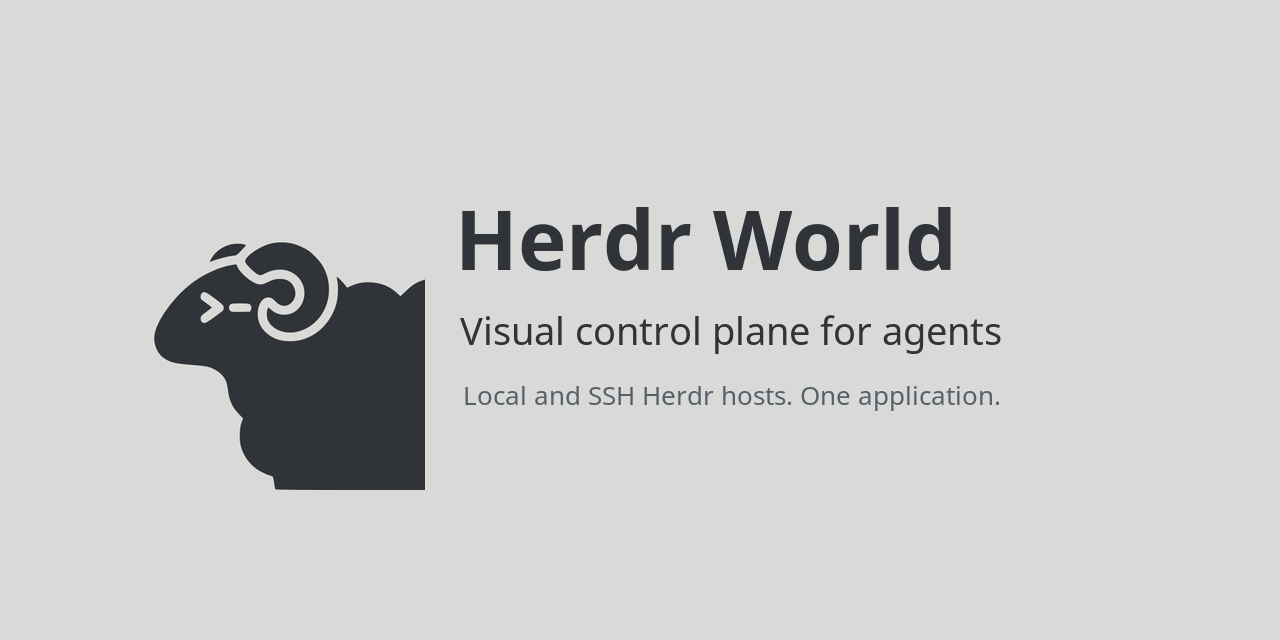
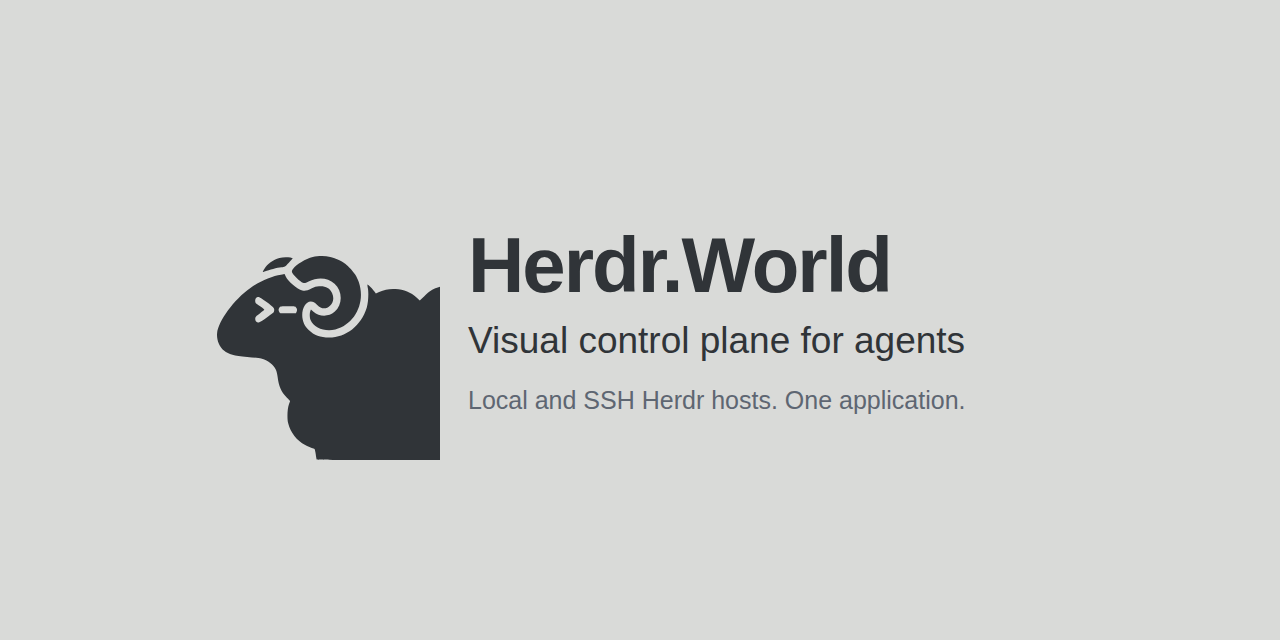
Style website and film brand as Herdr.World

Changed region(s): [[0.0938, 0.3125, 0.7812, 0.7812]]

diff --git a/site/index.html b/site/index.html
@@ -11,7 +11,7 @@
     <meta property="og:type" content="website" />
     <meta
       property="og:title"
-      content="Herdr World - View agent work in Office and Graph"
+      content="Herdr.World - View agent work in Office and Graph"
     />
     <meta
       property="og:description"
@@ -29,12 +29,12 @@
     <meta property="og:image:height" content="630" />
     <meta
       property="og:image:alt"
-      content="Herdr World - View agent work in Office and Graph"
+      content="Herdr.World - View agent work in Office and Graph"
     />
     <meta name="twitter:card" content="summary_large_image" />
     <meta
       name="twitter:title"
-      content="Herdr World - View agent work in Office and Graph"
+      content="Herdr.World - View agent work in Office and Graph"
     />
     <meta
       name="twitter:description"
@@ -49,12 +49,12 @@
     <link rel="icon" type="image/png" sizes="48x48" href="./assets/herdr-world-icon-48.png" />
     <link rel="apple-touch-icon" sizes="180x180" href="./assets/herdr-world-icon-180.png" />
     <link rel="stylesheet" href="./styles.css" />
-    <title>Herdr World - View agent work in Office and Graph</title>
+    <title>Herdr.World - View agent work in Office and Graph</title>
     <script type="application/ld+json">
       {
         "@context": "https://schema.org",
         "@type": "SoftwareApplication",
-        "name": "Herdr World",
+        "name": "Herdr.World",
         "applicationCategory": "DeveloperApplication",
         "operatingSystem": "macOS, Linux, Windows",
         "description": "Visualize Herdr agent work in Office and Graph across local and SSH hosts.",
@@ -73,9 +73,9 @@
 
     <header class="site-header" data-header>
       <div class="shell header-inner">
-        <a class="brand" href="#top" aria-label="Herdr World home">
+        <a class="brand" href="#top" aria-label="Herdr.World home">
           <img class="brand-logo" src="./assets/herdr-world-logo.svg" width="36" height="36" alt="" />
-          <span>Herdr World</span>
+          <span>Herdr.World</span>
         </a>
 
         <button
@@ -98,7 +98,7 @@
           <a
             class="github-link"
             href="https://github.com/IvoryHeart/herdr-world"
-            aria-label="Herdr World on GitHub"
+            aria-label="Herdr.World on GitHub"
           >
             <svg viewBox="0 0 24 24" aria-hidden="true">
               <path
@@ -116,11 +116,11 @@
 
     <main id="main-content">
       <section class="section shell film-section" id="top">
-        <h1 class="sr-only">Herdr World</h1>
+        <h1 class="sr-only">Herdr.World</h1>
         <div class="film-card reveal" id="film">
           <iframe
             src="./film/index.html?embed"
-            title="Promoted to CEO, a 62-second Herdr World film"
+            title="Promoted to CEO, a 62-second Herdr.World film"
             loading="eager"
             allow="autoplay; fullscreen"
           ></iframe>
@@ -147,13 +147,13 @@
               rel="noopener noreferrer"
               >Herdr</a
             >
-            keeps the terminals alive. Herdr World observes local and SSH hosts
+            keeps the terminals alive. Herdr.World observes local and SSH hosts
             in the background, projects the selected host into its visual views,
             and opens the exact terminal, files, changes and session history.
           </p>
           <div class="hero-actions">
             <a class="button button-primary" href="#install">
-              Install Herdr World
+              Install Herdr.World
               <svg viewBox="0 0 20 20" aria-hidden="true">
                 <path d="m7 4 6 6-6 6" />
               </svg>
@@ -195,7 +195,7 @@
             </div>
             <a
               href="./assets/herdr-world-desktop-office.png"
-              aria-label="Open the Herdr World Office screenshot"
+              aria-label="Open the Herdr.World Office screenshot"
               data-hero-link
             >
               <picture>
@@ -211,7 +211,7 @@
                 <img
                   data-hero-image
                   src="./assets/herdr-world-desktop-office.png"
-                  alt="Herdr World Office showing six agents across four workspaces on the selected host"
+                  alt="Herdr.World Office showing six agents across four workspaces on the selected host"
                   width="1440"
                   height="900"
                   loading="lazy"
@@ -494,7 +494,7 @@
                 tabindex="0"
                 data-showcase-tab
                 data-image="./assets/herdr-world-desktop-office.png"
-                data-alt="Herdr World Office showing the selected Herdr host"
+                data-alt="Herdr.World Office showing the selected Herdr host"
                 data-label="Office"
                 data-title="See the selected agent world at a glance."
                 data-copy="Keep local and SSH hosts observed in the background, then scan the selected host's spaces and recognized agents without losing the terminal workflow."
@@ -510,7 +510,7 @@
                 tabindex="-1"
                 data-showcase-tab
                 data-image="./assets/herdr-world-desktop-tree.png"
-                data-alt="Herdr World Tree showing the selected host's spaces and agents"
+                data-alt="Herdr.World Tree showing the selected host's spaces and agents"
                 data-label="Tree"
                 data-title="Trace every agent back to its runtime."
                 data-copy="Search and collapse the selected host's qualified space-agent hierarchy while World keeps every managed host distinct in the background."
@@ -526,7 +526,7 @@
                 tabindex="-1"
                 data-showcase-tab
                 data-image="./assets/herdr-world-desktop-graph.png"
-                data-alt="Herdr World Graph showing the selected host's spaces and agents"
+                data-alt="Herdr.World Graph showing the selected host's spaces and agents"
                 data-label="Graph"
                 data-title="Follow runtime relationships visually."
                 data-copy="Move from a machine to a workspace to the exact agent or terminal, then hand off into its live Spaces context."
@@ -542,7 +542,7 @@
                 tabindex="-1"
                 data-showcase-tab
                 data-image="./assets/herdr-world-desktop-files.png"
-                data-alt="Herdr World Inspector browsing files for the selected agent"
+                data-alt="Herdr.World Inspector browsing files for the selected agent"
                 data-label="Files"
                 data-title="Inspect the repository without leaving the agent."
                 data-copy="Browse the selected workspace and keep its terminal, changes, and agent identity in one movable Inspector."
@@ -558,7 +558,7 @@
                 tabindex="-1"
                 data-showcase-tab
                 data-image="./assets/herdr-world-desktop-changes.png"
-                data-alt="Herdr World Inspector showing changed files and a code diff"
+                data-alt="Herdr.World Inspector showing changed files and a code diff"
                 data-label="Changes"
                 data-title="Review the agent's changes in context."
                 data-copy="See changed files and inspect a diff beside the selected agent's workspace."
@@ -574,7 +574,7 @@
                 tabindex="-1"
                 data-showcase-tab
                 data-image="./assets/herdr-world-desktop-history.png"
-                data-alt="Herdr World Inspector showing agent session history"
+                data-alt="Herdr.World Inspector showing agent session history"
                 data-label="History"
                 data-title="Review what the agent actually did."
                 data-copy="Read the selected agent's session record beside its Office context, then return to the same live terminal."
@@ -599,12 +599,12 @@
                 </div>
                 <a
                   href="./assets/herdr-world-desktop-office.png"
-                  aria-label="Open the current Herdr World product screenshot"
+                  aria-label="Open the current Herdr.World product screenshot"
                   data-showcase-link
                 >
                   <img
                     src="./assets/herdr-world-desktop-office.png"
-                    alt="Herdr World Office showing the selected Herdr host"
+                    alt="Herdr.World Office showing the selected Herdr host"
                     width="1440"
                     height="900"
                     loading="lazy"
@@ -635,7 +635,7 @@
             <h2>Running in three steps.</h2>
           </div>
           <p>
-            Herdr World connects your browser to the Herdr runtime you already use.
+            Herdr.World connects your browser to the Herdr runtime you already use.
             Your agents still live in real terminal sessions owned by Herdr.
           </p>
         </div>
@@ -661,7 +661,7 @@
                 <path d="M8 5 3 12l5 7m8-14 5 7-5 7M14 3l-4 18" />
               </svg>
             </div>
-            <h3>Herdr World connects locally or over SSH</h3>
+            <h3>Herdr.World connects locally or over SSH</h3>
             <p>
               Run one World service on your computer. It connects to local or
               SSH Herdr hosts and serves the browser UI, terminals, files,
@@ -702,7 +702,7 @@
                 <span></span>Responsive file, diff, pane, and session views
               </li>
               <li>
-                <span></span>Install Herdr World as a PWA on desktop or mobile
+                <span></span>Install Herdr.World as a PWA on desktop or mobile
               </li>
             </ul>
             <a
@@ -716,14 +716,14 @@
           <div
             class="phone-stage reveal reveal-delay"
             role="group"
-            aria-label="Herdr World mobile views"
+            aria-label="Herdr.World mobile views"
           >
             <figure class="phone phone-left">
               <div class="phone-speaker"></div>
               <a href="./assets/herdr-world-mobile-office.png">
                 <img
                   src="./assets/herdr-world-mobile-office.png"
-                  alt="Herdr World Office view on mobile"
+                  alt="Herdr.World Office view on mobile"
                   width="390"
                   height="844"
                   loading="lazy"
@@ -736,7 +736,7 @@
               <a href="./assets/herdr-world-mobile-tree.png">
                 <img
                   src="./assets/herdr-world-mobile-tree.png"
-                  alt="Herdr World Tree view on mobile"
+                  alt="Herdr.World Tree view on mobile"
                   width="390"
                   height="844"
                   loading="lazy"
@@ -749,7 +749,7 @@
               <a href="./assets/herdr-world-mobile-spaces.png">
                 <img
                   src="./assets/herdr-world-mobile-spaces.png"
-                  alt="Herdr World Spaces terminal controls on mobile"
+                  alt="Herdr.World Spaces terminal controls on mobile"
                   width="390"
                   height="844"
                   loading="lazy"
@@ -817,7 +817,7 @@
         <div class="footer-brand">
           <a class="brand" href="#top">
             <img class="brand-logo" src="./assets/herdr-world-logo.svg" width="36" height="36" alt="" />
-            <span>Herdr World</span>
+            <span>Herdr.World</span>
           </a>
           <p>
             An open-source visual control plane for
@@ -872,7 +872,7 @@
         </div>
       </div>
       <div class="shell footer-bottom">
-        <span>&copy; <span data-year></span> Herdr World contributors.</span>
+        <span>&copy; <span data-year></span> Herdr.World contributors.</span>
         <span>Real terminals. Clear context. Any screen.</span>
       </div>
     </footer>

diff --git a/site/film/index.html b/site/film/index.html
@@ -4,11 +4,11 @@
 <meta charset="UTF-8">
 <meta name="viewport" content="width=device-width, initial-scale=1">
 <meta name="theme-color" content="#080b12">
-<title>Promoted to CEO - a Herdr World film</title>
-<meta name="description" content="A 62-second film about Herdr World: stop babysitting AI agents, start herding them.">
+<title>Promoted to CEO - a Herdr.World film</title>
+<meta name="description" content="A 62-second film about Herdr.World: stop babysitting AI agents, start herding them.">
 <meta property="og:type" content="video.other">
-<meta property="og:title" content="Promoted to CEO - a Herdr World film">
-<meta property="og:description" content="You hired 12 AI agents. They hired a babysitter. Herdr World promotes you to CEO.">
+<meta property="og:title" content="Promoted to CEO - a Herdr.World film">
+<meta property="og:description" content="You hired 12 AI agents. They hired a babysitter. Herdr.World promotes you to CEO.">
 <meta property="og:url" content="https://herdr.world/film/">
 <meta property="og:image" content="https://herdr.world/assets/herdr-world-film-poster.jpg">
 <meta property="og:image:width" content="1280">
@@ -112,9 +112,9 @@
 </head>
 <body>
 <div class="wrap">
-  <div class="eyebrow"><a href="../">← Herdr World</a><span>Promoted to CEO · 62 s · sound on</span></div>
+  <div class="eyebrow"><a href="../">← Herdr.World</a><span>Promoted to CEO · 62 s · sound on</span></div>
   <div class="stage">
-    <canvas id="film" width="1920" height="1080" aria-label="Animated film: Promoted to CEO, about Herdr World"></canvas>
+    <canvas id="film" width="1920" height="1080" aria-label="Animated film: Promoted to CEO, about Herdr.World"></canvas>
     <button class="big-play" id="bigplay" type="button" aria-label="Play the film">
       <span class="disc"><svg viewBox="0 0 24 24" aria-hidden="true"><path d="M5 3l16 9-16 9z"/></svg></span>
     </button>
@@ -128,7 +128,7 @@
     <button id="fullscreen" type="button" aria-pressed="false">Full screen</button>
   </div>
   <p class="note">Everything here is drawn and scored live in your browser: canvas pixels and Web Audio, no video file.
-    Get Herdr World at <a href="../#install">https://herdr.world</a>.
+    Get Herdr.World at <a href="../#install">https://herdr.world</a>.
     Pixel characters are downscaled from the Claw-Empire sprite set (Apache-2.0). Fonts: Big Shoulders, JetBrains Mono and Silkscreen (<a href="./fonts/OFL.txt">SIL Open Font License 1.1</a>).</p>
 </div>
 
@@ -506,7 +506,7 @@ function drawOffice(t) {
   ctx.save(); ctx.translate(0, cy);
   ctx.fillStyle = '#0d111b'; ctx.fillRect(0, 0, W, 64); ctx.fillStyle = C.line; ctx.fillRect(0, 63, W, 1);
   logoTile(42, 32, 38);
-  text('Herdr World', 74, 41, 24, C.text, { weight: 700 });
+  text('Herdr.World', 74, 41, 24, C.text, { weight: 700 });
   fillRR(250, 14, 230, 36, 7, C.panel); strokeRR(250, 14, 230, 36, 7, C.line, 1.5); circle(270, 32, 6, C.green);
   text('laptop  Connected ▾', 286, 38, 16, C.soft, { weight: 700 });
   fillRR(496, 14, 150, 36, 7, C.panel); strokeRR(496, 14, 150, 36, 7, C.line, 1.5); text('Office ▾', 512, 38, 16, C.soft, { weight: 700 });
@@ -829,7 +829,7 @@ function S6(t) {
     const term = t >= 49.1;
     if (!term) {
       ctx.fillStyle = '#0d111b'; ctx.fillRect(sx, sy + 56, sw, 56);
-      logoTile(sx + 34, sy + 84, 30); text('Herdr World', sx + 58, sy + 91, 18, C.text, { weight: 700 });
+      logoTile(sx + 34, sy + 84, 30); text('Herdr.World', sx + 58, sy + 91, 18, C.text, { weight: 700 });
       fillRR(sx + 210, sy + 68, 180, 32, 6, C.panel); circle(sx + 226, sy + 84, 5, C.green); text('gpu-box ▾', sx + 240, sy + 90, 15, C.soft, { weight: 700 });
       ctx.save(); ctx.translate(sx - 30, sy + 130); ctx.scale(.42, .42); ctx.translate(-30, -90); drawOffice(46.8); ctx.restore();
       if (t >= 47.6) {
@@ -837,7 +837,7 @@ function S6(t) {
         const ny = sy + lerp(-140, 60, np);
         ctx.shadowColor = 'rgba(0,0,0,.6)'; ctx.shadowBlur = 30; fillRR(sx + 14, ny, sw - 28, 110, 22, 'rgba(36,44,64,.97)'); ctx.shadowBlur = 0;
         logoTile(sx + 50, ny + 40, 34);
-        text('HERDR WORLD', sx + 80, ny + 34, 14, C.muted, { fam: F.px, weight: 700 }); text('now', sx + sw - 40, ny + 34, 14, C.muted, { align: 'right' });
+        text('HERDR.WORLD', sx + 80, ny + 34, 14, C.muted, { fam: F.px, weight: 700 }); text('now', sx + sw - 40, ny + 34, 14, C.muted, { align: 'right' });
         text('reviewer needs input ?', sx + 80, ny + 64, 19, C.text, { weight: 700 });
         text('gpu-box · eval · codex', sx + 80, ny + 90, 16, C.soft);
         if (t >= 48.9) { const rp = seg(t, 48.9, 49.2); circle(sx + sw / 2, ny + 55, 30 + rp * 30, `rgba(255,255,255,${.35 * (1 - rp)})`); }
@@ -891,10 +891,10 @@ function S7(t) {
     if (t >= 56.2) {
       const lp = eback(seg(t, 56.2, 56.65));
       ctx.save(); ctx.translate(W / 2, 270); ctx.scale(lp, lp); logoTile(0, 0, 200, 1); ctx.restore();
-      withA(seg(t, 56.45, 56.8), () => text('Herdr World', W / 2, 520, 150, C.text, { fam: F.disp, weight: 900, align: 'center', ls: 2 }));
+      withA(seg(t, 56.45, 56.8), () => text('Herdr.World', W / 2, 520, 150, C.text, { fam: F.disp, weight: 900, align: 'center', ls: 2 }));
       if (t >= 56.9) {
         withA(seg(t, 56.9, 57.1), () => {
-          const cmd = 'npm install --global @ivoryheart/herdr-world';
+          const cmd = 'npx @ivoryheart/herdr-world';
           const k = Math.floor(seg(t, 57.1, 58.8) * cmd.length);
           fillRR(W / 2 - 520, 580, 1040, 92, 14, C.panel); strokeRR(W / 2 - 520, 580, 1040, 92, 14, C.line, 2);
           text('$', W / 2 - 480, 640, 34, C.blue, { weight: 700 });

diff --git a/CHANGELOG.md b/CHANGELOG.md
@@ -12,7 +12,8 @@ are optional because the merged PR history records their source.
 - Removed the homepage film introduction so the video leads directly from the
   navigation into the product content.
 - Removed CEO Mode from the homepage navigation and added a full-screen film
-  control. The film now shows the full website URL and npm install command.
+  control. The film now shows the full website URL and a one-shot npm command.
+- Styled the homepage, film, and social preview cards as Herdr.World.
 - Put the "Promoted to CEO" film first on the homepage, with a Home navigation
   link. Its play overlay and controls now clear during playback.
 - Turned the product hero screenshot into a carousel of the six showcase views.
